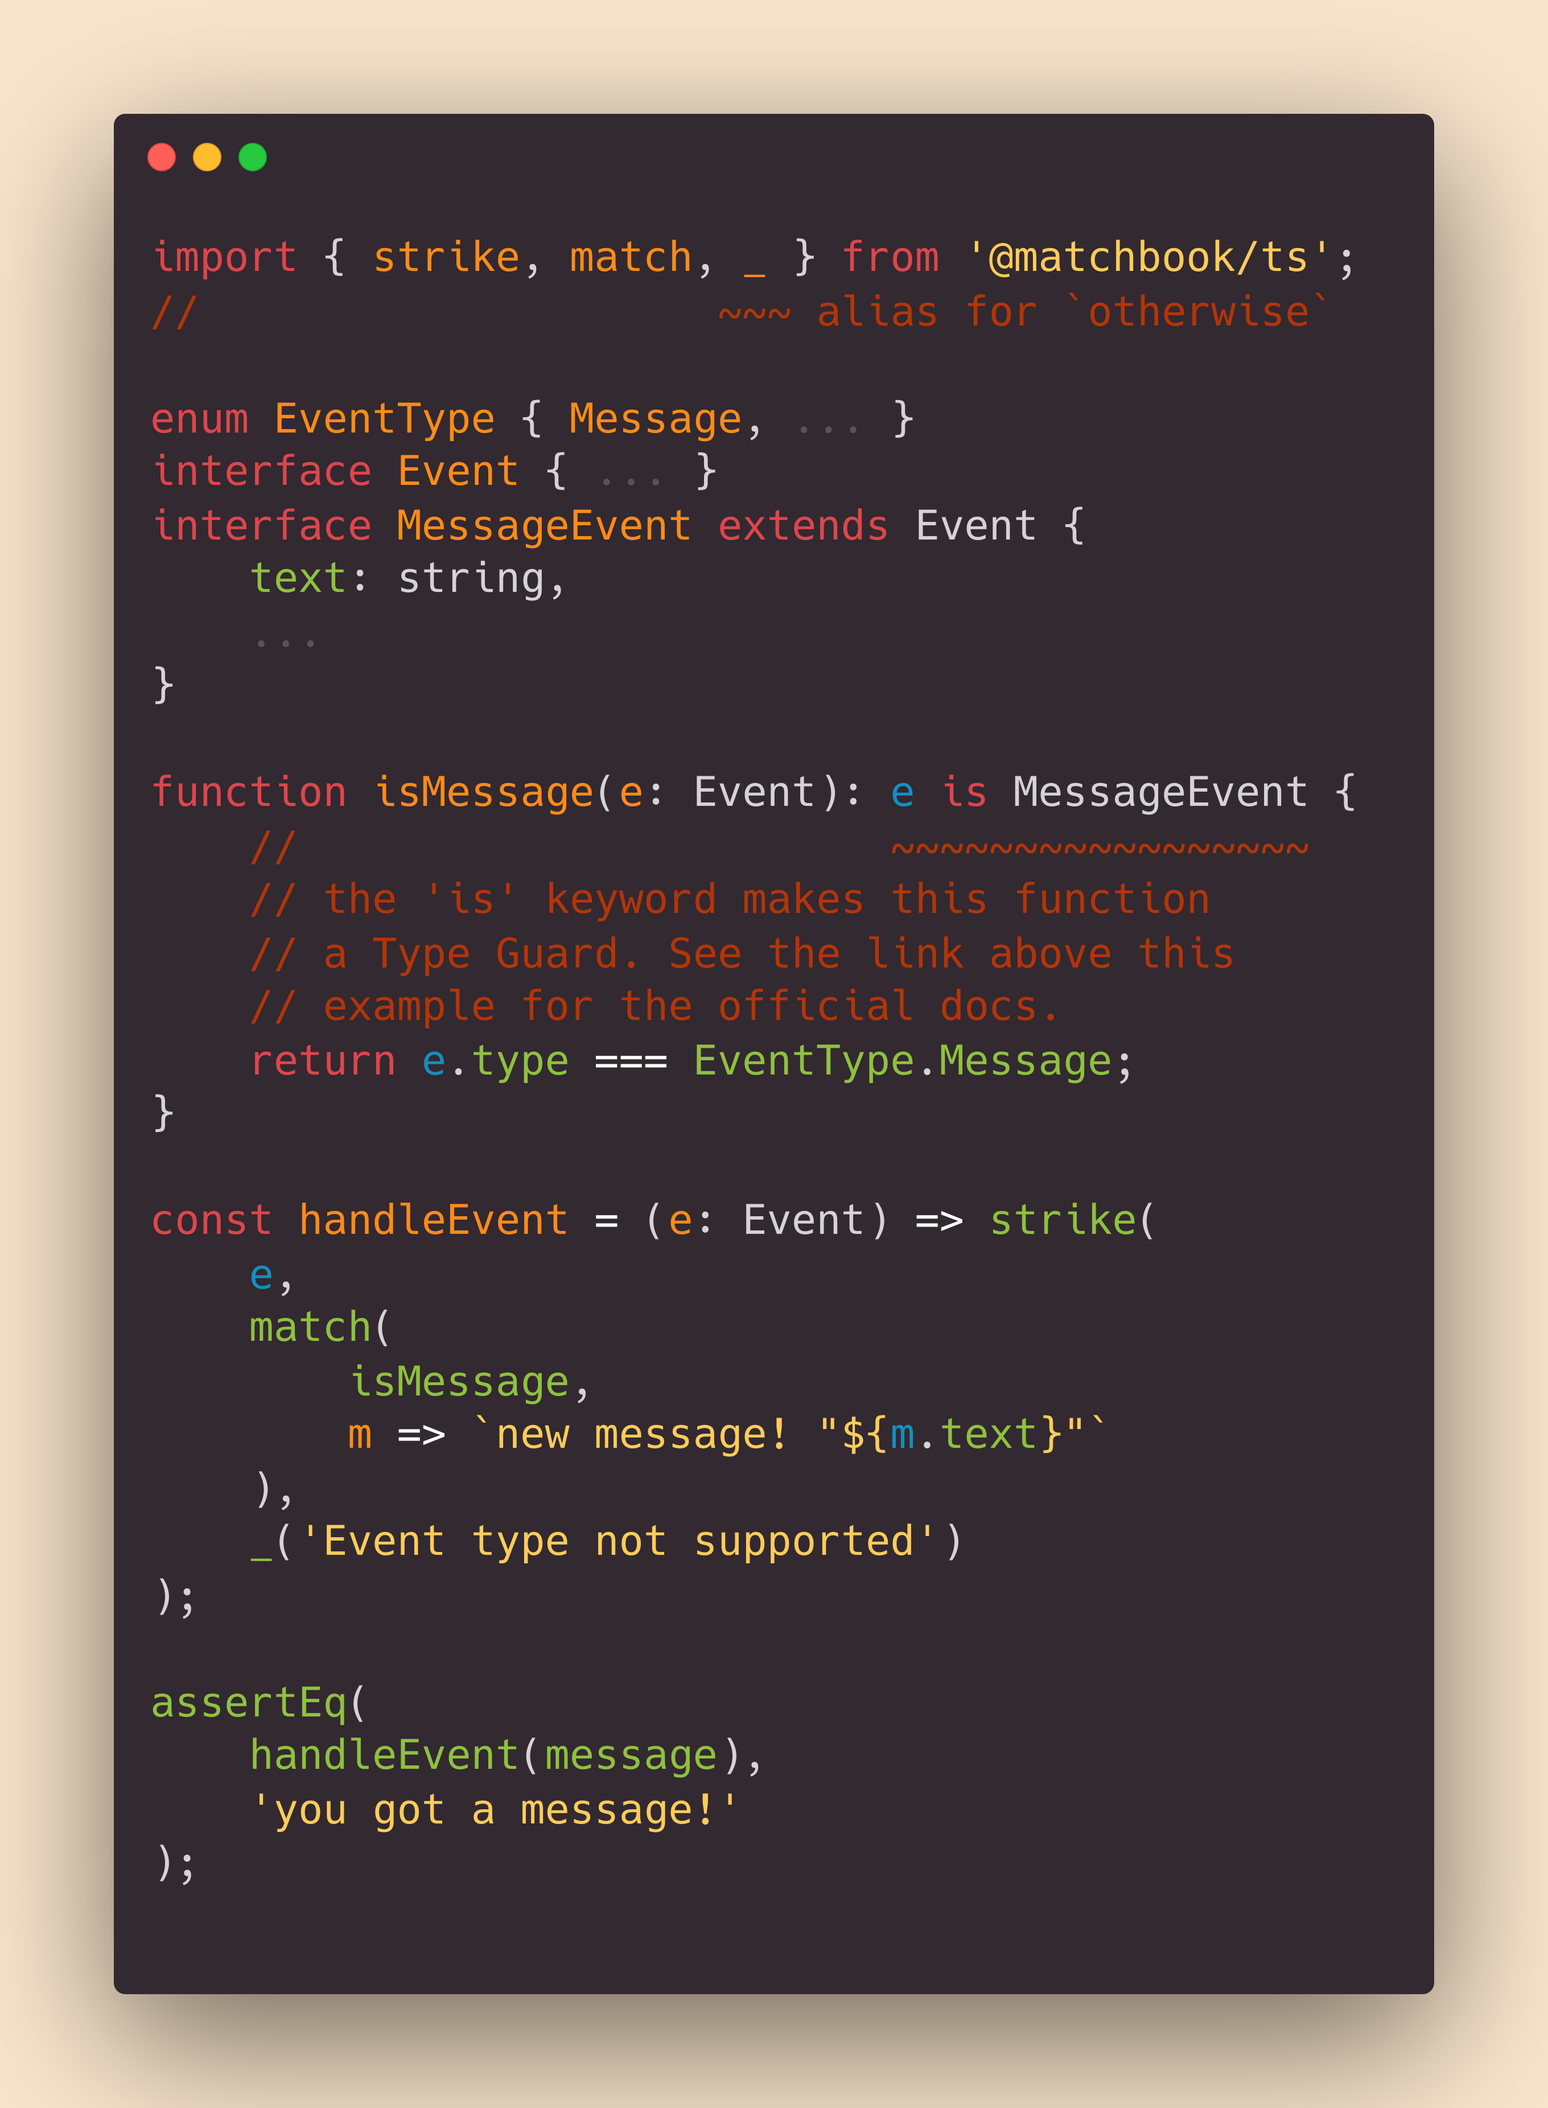
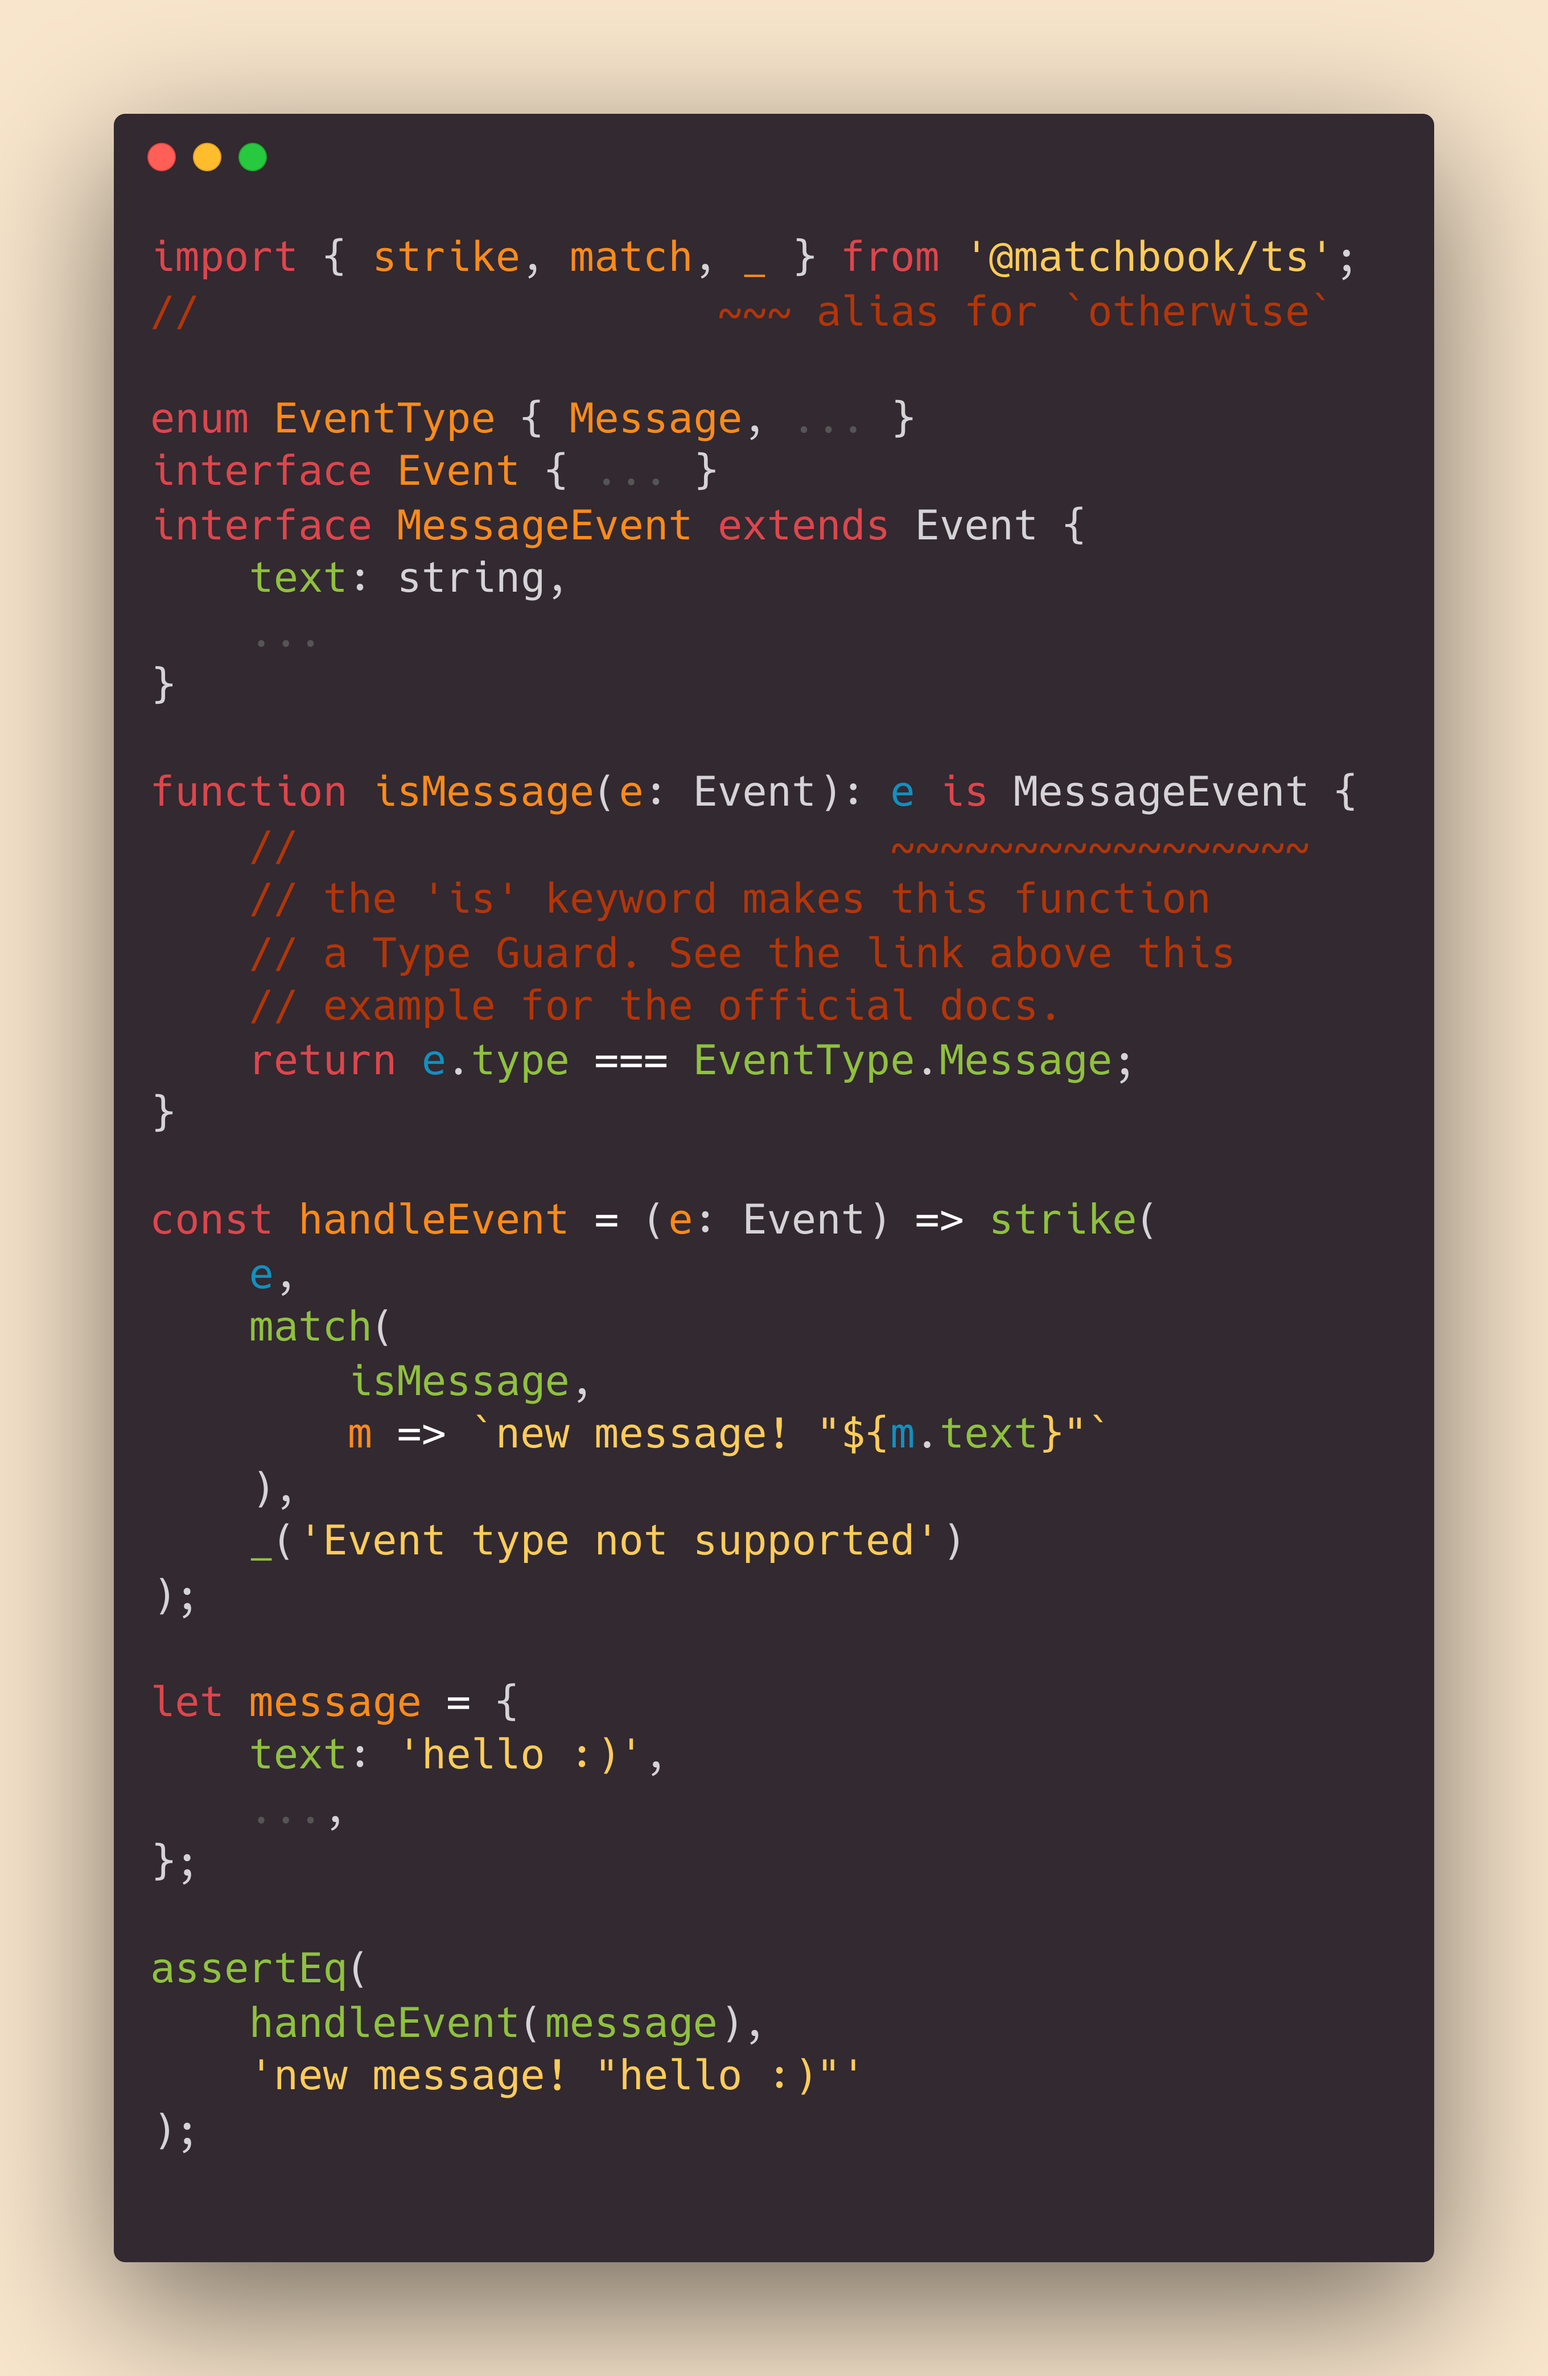
fix assert in type guard

diff --git a/assets/readme-samples/src/type_guard.snippet.ts b/assets/readme-samples/src/type_guard.snippet.ts
@@ -25,7 +25,12 @@ const handleEvent = (e: Event) => strike(
     _('Event type not supported')
 );
 
+let message = {
+    text: 'hello :)',
+    ...,
+};
+
 assertEq(
     handleEvent(message),
-    'you got a message!'
+    'new message! "hello :)"'
 );
